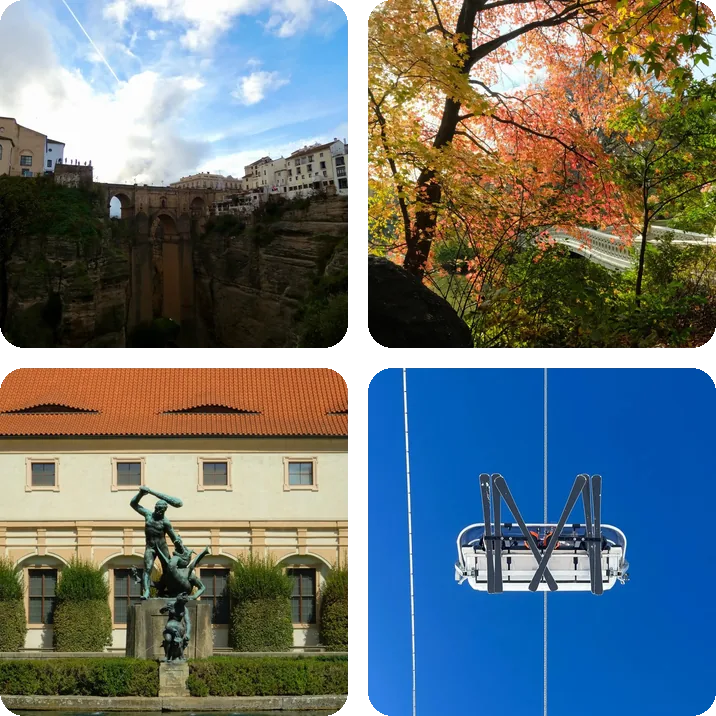
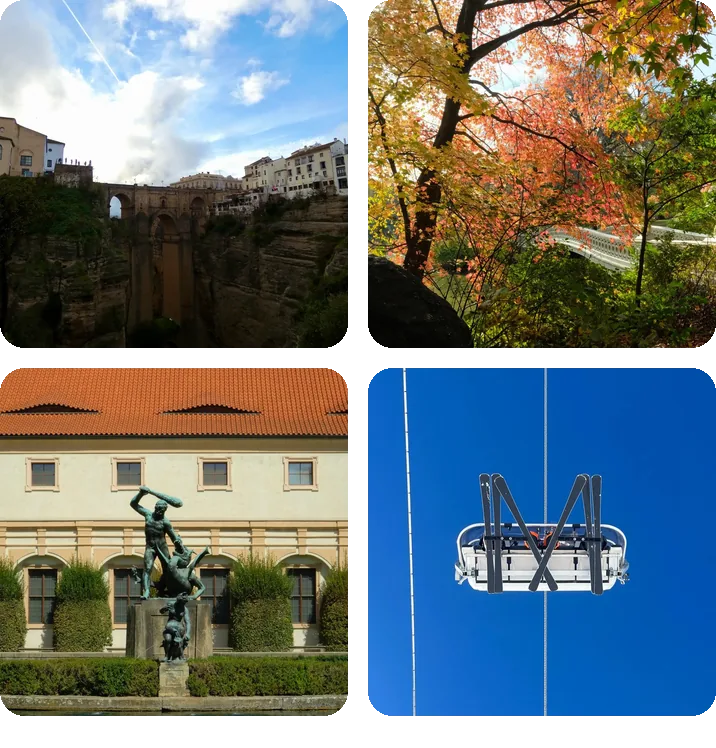
Add breathing room between the photos and the link chips

diff --git a/scripts/rotate_photos.py b/scripts/rotate_photos.py
@@ -43,11 +43,13 @@ def square(path, size):
     return im.resize((size, size), Image.LANCZOS)
 
 
-def layout(paths, width, cols, gap, radius):
-    width, gap, radius = width * SCALE, gap * SCALE, radius * SCALE
+def layout(paths, width, cols, gap, radius, bottom=16):
+    """`bottom` is transparent space under the photos, so the link chips below
+    get some breathing room (GitHub ignores CSS margins in READMEs)."""
+    width, gap, radius, bottom = width * SCALE, gap * SCALE, radius * SCALE, bottom * SCALE
     tile = (width - gap * (cols - 1)) // cols
     rows = (len(paths) + cols - 1) // cols
-    canvas = Image.new("RGBA", (width, rows * tile + (rows - 1) * gap), (0, 0, 0, 0))
+    canvas = Image.new("RGBA", (width, rows * tile + (rows - 1) * gap + bottom), (0, 0, 0, 0))
     for i, p in enumerate(paths):
         x = (i % cols) * (tile + gap)
         y = (i // cols) * (tile + gap)
